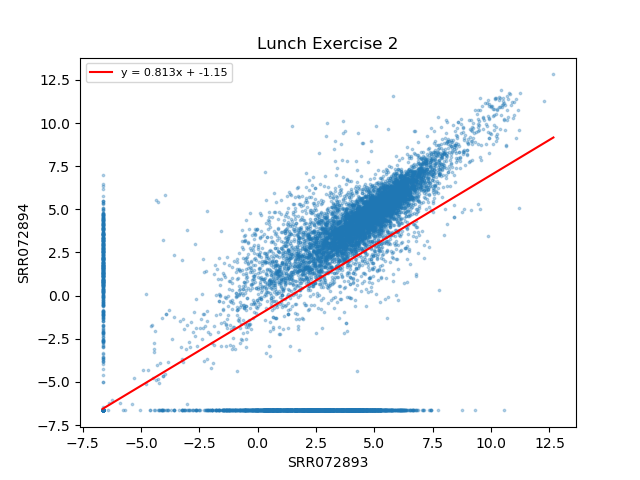
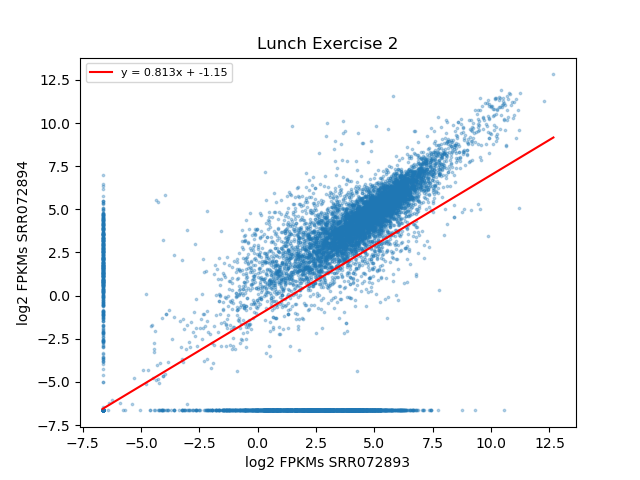
lunch exercise 2

Changed region(s): [[0.0, 0.3438, 0.0625, 0.6875], [0.375, 0.9375, 0.6562, 1.0]]

diff --git a/day4-lunch/02-scatter.py b/day4-lunch/02-scatter.py
@@ -33,8 +33,8 @@ ax.plot(x, [(m*x1)+b for x1 in x], color = "red", label = 'y = %sx + %s' %(str(m
 # choosing where to place a line on the graph (x-coordinates) (y-coordinates)
 #ax.plot([0,40], [0,20000], color = "red")
 ax.set_title("Lunch Exercise 2")
-ax.set_xlabel("SRR072893")
-ax.set_ylabel("SRR072894")
+ax.set_xlabel("log2 FPKMs SRR072893")
+ax.set_ylabel("log2 FPKMs SRR072894")
 ax.legend(loc = 'upper left', fontsize = 8)
 fig.savefig("fpkms_scatter.png")
 plt.close(fig)
